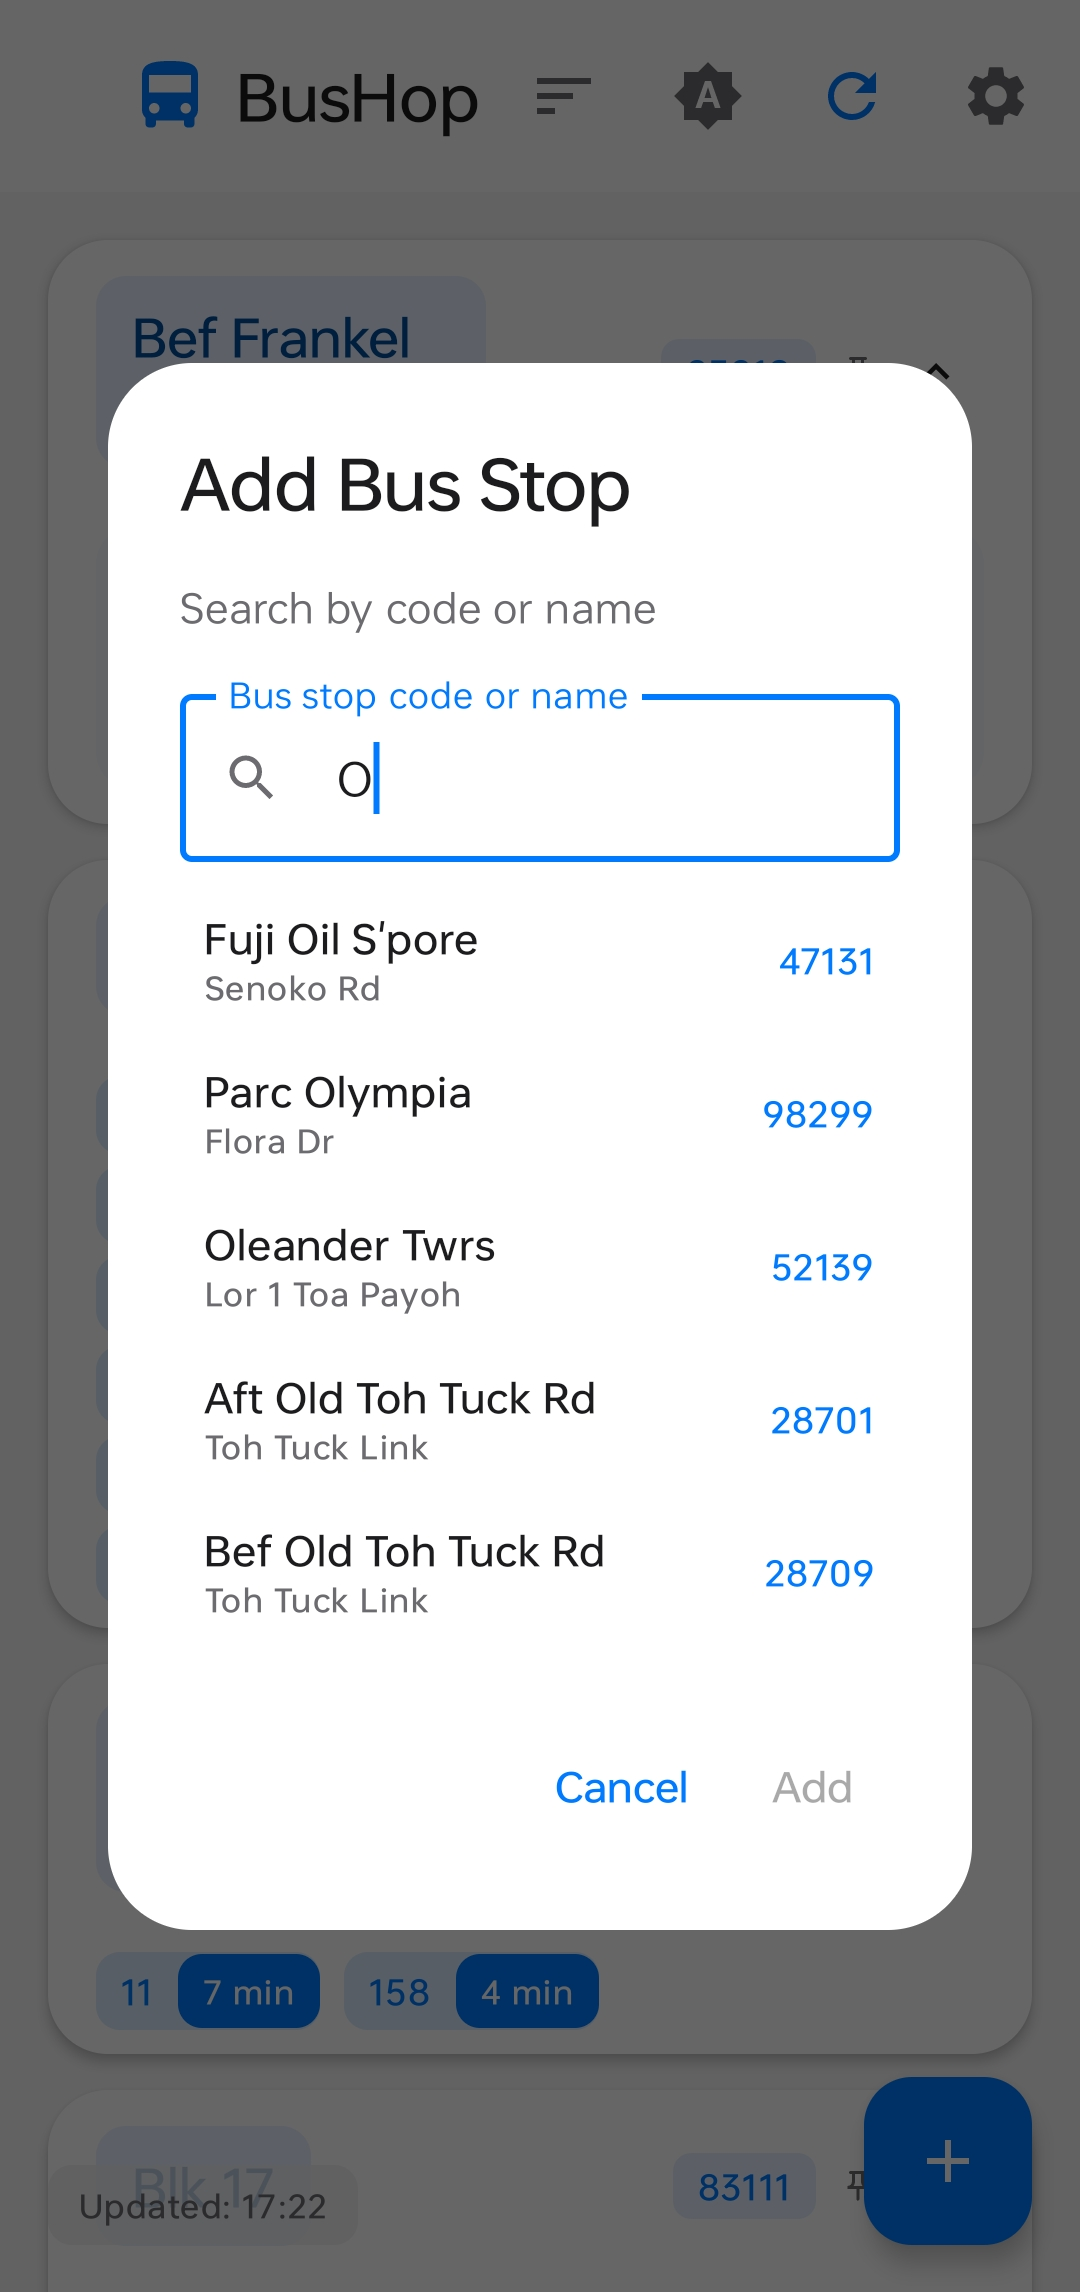
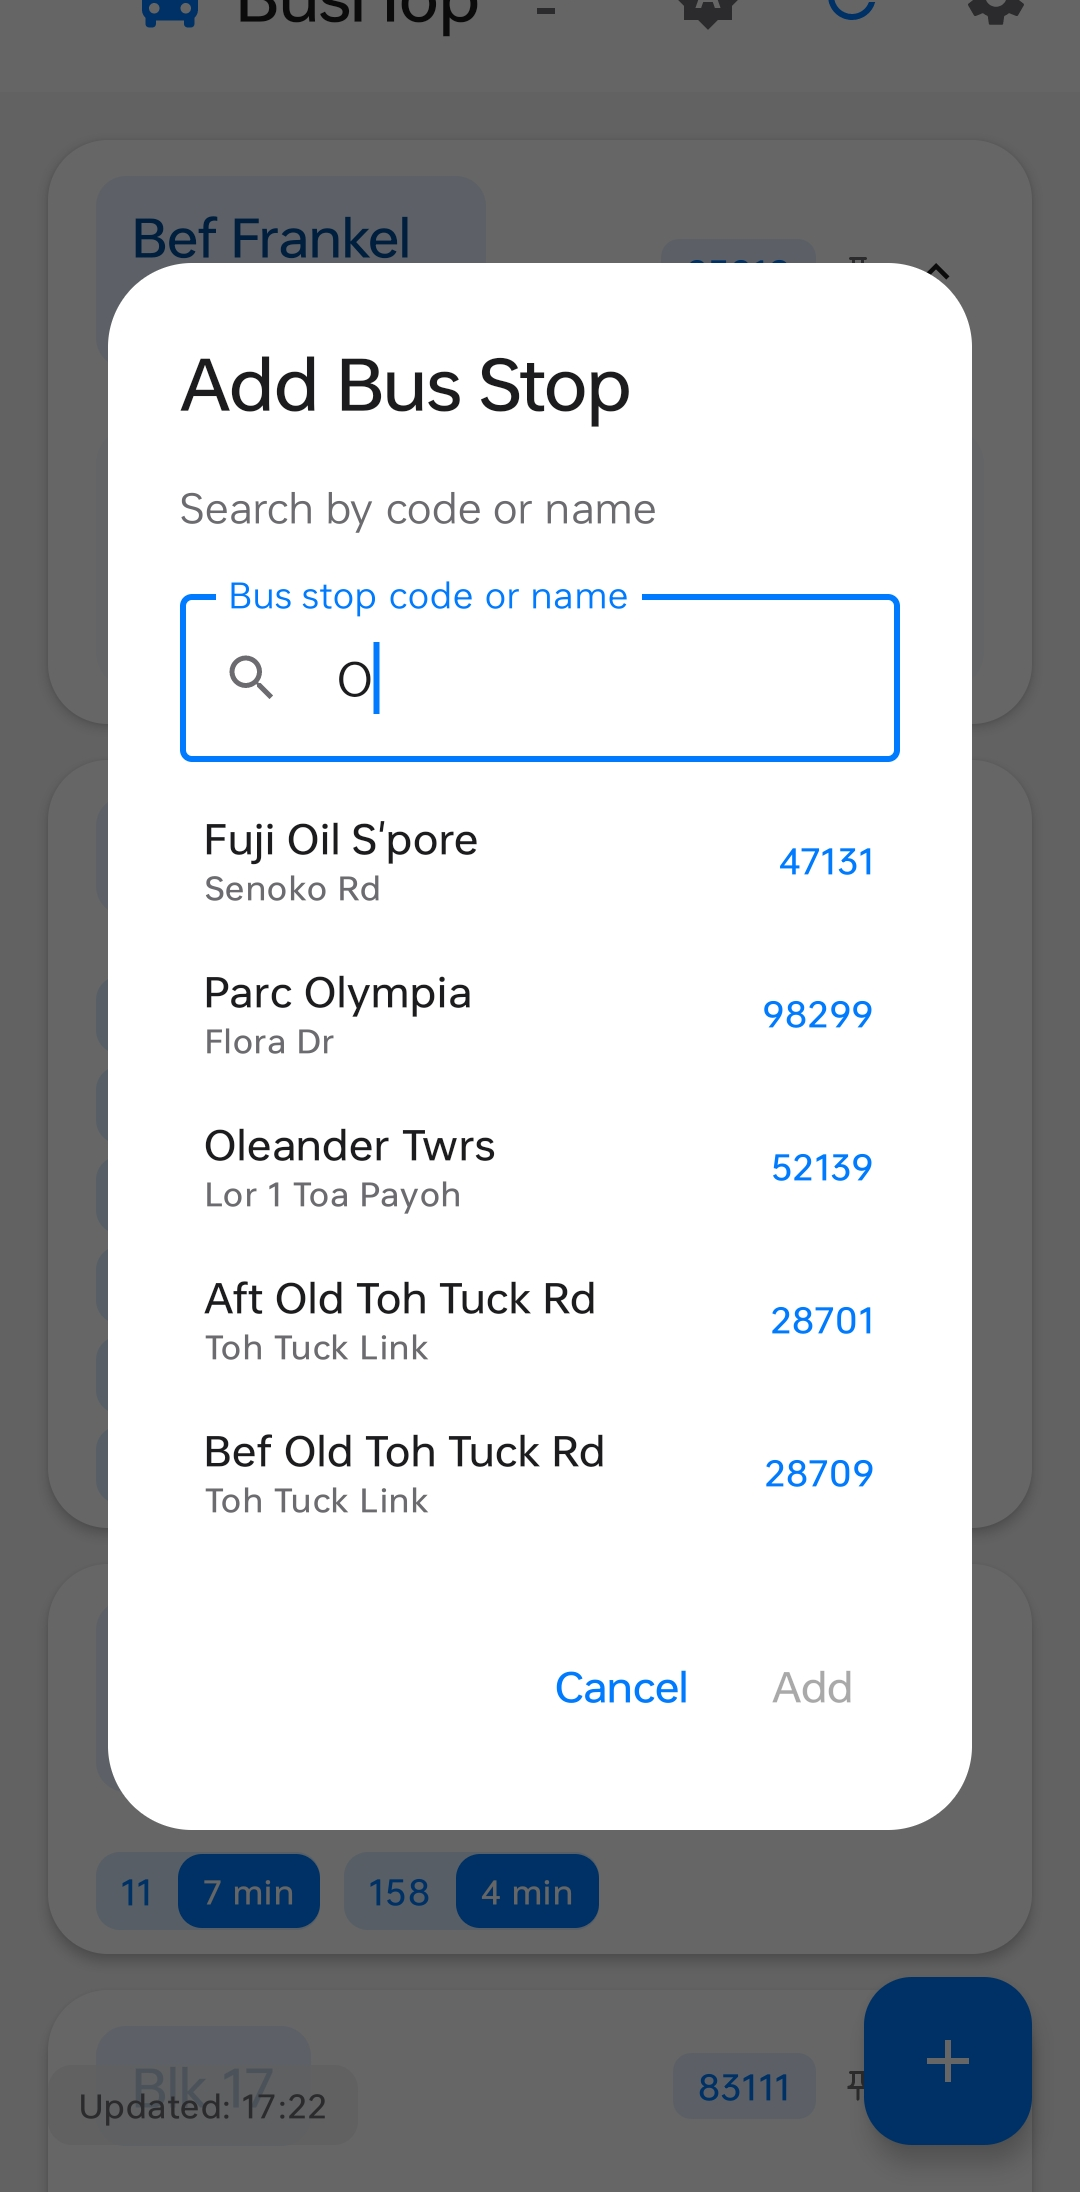
fix: crop search top-only (remove scrim), revert to markdown image syntax

diff --git a/README.md b/README.md
@@ -17,10 +17,10 @@
 
 ## Screenshots
 
-| Stops list | Search dialog |
-| ---------- | ------------- |
-| _Pinned stops at top, arrivals, pull-to-refresh_ | _TokenTrie O(k) search — instant, no network_ |
-| <img src="docs/screenshots/screenshot_main.jpg" height="500"> | <img src="docs/screenshots/screenshot_search.png" height="500"> |
+| Stops list                                          | Search dialog                                            |
+| --------------------------------------------------- | -------------------------------------------------------- |
+| _Pinned stops at top, arrivals, pull-to-refresh_    | _TokenTrie O(k) search — instant, no network_            |
+| ![Stops list](docs/screenshots/screenshot_main.jpg) | ![Search dialog](docs/screenshots/screenshot_search.png) |
 
 ## Features
 